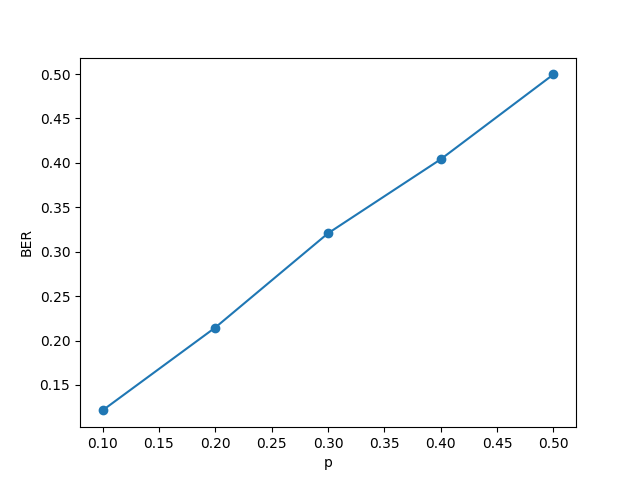
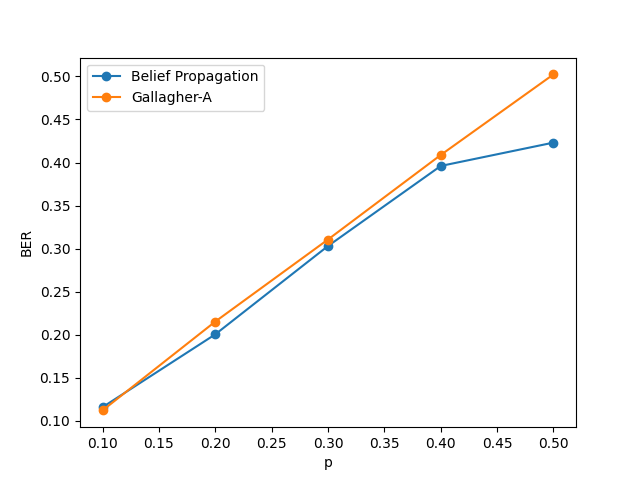
Add interface files

diff --git a/LDPC/interface/main/templates/main/awgn.html b/LDPC/interface/main/templates/main/awgn.html
@@ -1,0 +1,69 @@
+<head>
+    {% load static %}
+    <meta name="viewport" content="width=device-width, initial-scale=1, shrink-to-fit=no">
+
+    <link rel="stylesheet" href="https://maxcdn.bootstrapcdn.com/bootstrap/4.0.0/css/bootstrap.min.css" integrity="sha384-Gn5384xqQ1aoWXA+058RXPxPg6fy4IWvTNh0E263XmFcJlSAwiGgFAW/dAiS6JXm" crossorigin="anonymous">
+    <script src="https://code.jquery.com/jquery-3.2.1.slim.min.js" integrity="sha384-KJ3o2DKtIkvYIK3UENzmM7KCkRr/rE9/Qpg6aAZGJwFDMVNA/GpGFF93hXpG5KkN" crossorigin="anonymous"></script>
+    <script src="https://cdnjs.cloudflare.com/ajax/libs/popper.js/1.12.9/umd/popper.min.js" integrity="sha384-ApNbgh9B+Y1QKtv3Rn7W3mgPxhU9K/ScQsAP7hUibX39j7fakFPskvXusvfa0b4Q" crossorigin="anonymous"></script>
+    <script src="https://maxcdn.bootstrapcdn.com/bootstrap/4.0.0/js/bootstrap.min.js" integrity="sha384-JZR6Spejh4U02d8jOt6vLEHfe/JQGiRRSQQxSfFWpi1MquVdAyjUar5+76PVCmYl" crossorigin="anonymous"></script>
+    <script src="https://cdnjs.cloudflare.com/ajax/libs/materialize/1.0.0/js/materialize.min.js"></script>
+
+    <title>SimuLDPC</title>
+    <style>
+        .text {
+            color: white !important;
+        }
+        
+        .navbar {
+            background-color: black;
+            font-weight: bold;
+            height: 10%;
+        }
+    </style>
+</head>
+
+<body>
+    <nav class="navbar">
+        <a class="navbar-brand text">AWGN channel</a>
+    </nav>
+    <br><br>
+
+    <form method="POST">
+        <div class="container">
+            {% csrf_token %}
+            <div class="row">
+                <div class="col">
+                    <div class="form-group">
+                        <label for="snr" class="col-sm-1 col-form-label" style="font-weight: bold">SNR:</label>
+                        <div class="col-md-10">
+                            <input type="text" class="form-control" name="snr" id="snr" placeholder="Enter an array of SNR values. For eg: [1, 2, 3]">
+                        </div>
+                    </div>
+                    <br> <br>
+                    <div class="form-group col">
+                        <label for="img" style="font-weight: bold">Upload a gray-scale *.png image file: </label>
+                        <div class="col-md-10">
+                            <input type="file" class="form-control-file" name="img" id="img">
+                        </div>
+                    </div>
+                    <br> <br>
+                    <div class="col text-center">
+                        <button type="submit" class="btn btn-primary btn-lg" style="background-color: teal;">Simulate</button>
+                    </div>
+
+                </div>
+
+                <div class="col">
+                    <div class="col-md-10">
+                        <div class="card text-center text" style="background-color: black; font-weight: bold">
+                            <img src="../media/figs/awgn_w5Zvil9_dAryJBX.jpg" class="img-fluid float-left" alt="Responsive image">
+                            <div class="card-body">
+                                <p class="card-text">Uploaded Image</p>
+                            </div>
+                        </div>
+                    </div>
+                </div>
+            </div>
+    </form>
+
+</body>

diff --git a/LDPC/interface/main/templates/main/home.html b/LDPC/interface/main/templates/main/home.html
@@ -22,7 +22,8 @@
         <div class="row">
             {% for ch in channels %}
                 <div class="col s12 m7 l4">
-                    <div class="card grey darken-4">
+                    <a href = {{ch.channel_slug}}>
+                    <div class="card hoverable grey darken-4">
                         <div class="card-image">
                         <img src={{ch.channel_img.url}} height = "40%">
                         <span class="card-title text" style = "background-color: black; font-weight: bold">{{ch.channel_type}}</span>
@@ -31,9 +32,10 @@
                         <p>{{ch.channel_summary}}</p>
                     </div>
             <div class="card-action center">
-            <a class="waves-effect waves-light btn" href = {{ch.channel_slug}}><span class = "text">GO</span></a>
+            <a class="waves-effect hoverable waves-light btn" href = {{ch.channel_slug}}><span class = "text">GO</span></a>
             </div>
       </div>
+      </a>
     </div>
             {% endfor %}
         </div>

diff --git a/LDPC/BSC/decode.py b/LDPC/BSC/decode.py
@@ -1,107 +1,188 @@
-# Gallagher A decoder for a Binar Symmetric Channel
+# Decoder for a Binary Symmetric Channel
 
 import numpy as np
-import matplotlib.pyplot as plt 
+import matplotlib.pyplot as plt
 import math
 import commpy
 
-#Loading the Parameters from the Encoding
+# Loading the Parameters from the Encoding
 img = np.load('../binary_image.npy')
 lx, ly = len(img), len(img[0])
 code = np.loadtxt("../encoded_bits.dat")
 code_len = len(code)
 G, H = np.loadtxt("../G.dat"), np.loadtxt("../H.dat")
 n, k = G.shape[1], G.shape[0]
-img = np.array(img).flatten() #vectorising the matrix
+img = np.array(img).flatten()  # vectorising the matrix
 size = len(img)
 
-row = [[] for _ in range(len(H))] # Analogous to an adjacency list reperesentation of a graph. For storing indices of non-zero entries (corresponding to a particular row or column) in H 
+# Analogous to an adjacency list reperesentation of a graph. For storing indices of non-zero entries (corresponding to a particular row or column) in H
+row = [[] for _ in range(len(H))]
 col = [[] for _ in range(n)]
 
 for i in range(len(H)):
-	for j in range(n):
-		if(H[i][j] == 1):
-			row[i].append(j)
-			col[j].append(i)
+    for j in range(n):
+        if(H[i][j] == 1):
+            row[i].append(j)
+            col[j].append(i)
+
 
 def BSC(data, p):
-	b = np.array(np.random.rand(len(data)) < p, dtype = np.int)
-	b ^= data.astype(int)
-	return b.astype(float)
+    b = np.array(np.random.rand(len(data)) < p, dtype=np.int)
+    b ^= data.astype(int)
+    return b.astype(float)
 
 # utility functions
+
+
 def xor(arr, n):
-	res = 0
-	for i in range(len(arr)):
-		if i != n:
-			res += arr[i]
-	return res % 2
+    res = 0
+    for i in range(len(arr)):
+        if i != n:
+            res += arr[i]
+    return res % 2
+
 
 def findMax(arr, index, n):
-	res = -1
-	for i in range(len(col[index])):
-		if(i != n):
-			res = max(res, arr[col[index][i]])
+    res = -1
+    for i in range(len(col[index])):
+        if(i != n):
+            res = max(res, arr[col[index][i]])
 
-	return res
+    return res
+
 
 def findMin(arr, index, n):
-	res = 2
-	for i in range(len(col[index])):
-		if(i != n):
-			res = min(res, arr[col[index][i]])
+    res = 2
+    for i in range(len(col[index])):
+        if(i != n):
+            res = min(res, arr[col[index][i]])
 
-	return res
+    return res
 
-# Gallagher-A decoder function
-def decode(bits):
-	L = H.copy()
-	res = np.zeros(math.ceil(k*len(bits)/n))
 
-	for i in range(int(len(bits)/n)):		
-		r = bits[n*i : n*(i+1)]
-		c = r
+def computeTanh(arr, rowIndex):
+    res = 1
+    for i in row[rowIndex]:
+        res *= np.tanh(arr[i]/2)
 
-		for j in range(len(L)):
-			L[j] = H[j]*r
+    return res
 
-		for _ in range(10): # no. of iterations
-			for j in range(len(H)):
-				for l in range(n):
-					#column operations
-					temp = findMax(L[:, l], l, j)
-					if(temp == findMin(L[:, l], l, j)): # if all entries of the column are equal.
-						L[j][l] = temp
-						c[l] = temp
-					else:
-						L[j][l] = r[l]
 
-					#row operations
-					L[j][l] = xor(L[j], l)
+def intrinsic(y, p):
+    if y:
+        return np.log(p/(1 - p))
+    return -np.log(p/(1 - p))
 
-			res[k*i : k*(i+1)] = c[0:k]				
-    
-	return res 
+# decoders
 
-	
+
+def beliefProp(bits, p):  # decoding using belief-propagation
+    L = H.copy()
+    decod = np.zeros(math.ceil(k*len(bits)/n))
+
+    for i in range(int(len(bits)/n)):
+        r = bits[n*i: n*(i+1)]
+        for j in range(len(L)):
+            # Analogous to adjacency matrix representation of the Tanner graph
+            L[j] = H[j] * r
+
+        currDecision = np.zeros(n)  # to store the current decision
+
+        for _ in range(10):
+            # row operations
+            for j in range(len(L)):
+                x = L[j]
+                l_j = computeTanh(L[j], j)
+
+                for l in row[j]:
+                    temp = 0
+                    if l_j != 0:
+                        temp = l_j/np.tanh(x[l]/2)
+                        if temp == 1: # to handle the "division by zero" error
+                            temp = 0.999
+
+                        if temp == -1:
+                            temp = -0.999
+                    
+                    x[l] = np.log((1 + temp)/(1 - temp))
+
+                L[j] = x
+
+            # column operations
+            for j in range(n):
+                sum_j = intrinsic(r[j], p) + np.sum(L[:, j])
+                for l in col[j]:
+                    L[l][j] = sum_j - L[l][j]
+
+                if sum_j < 0:
+                    currDecision[j] = 1
+                else:
+                    currDecision[j] = 0
+
+            decod[k*i: k*(i+1)] = currDecision[0:k]
+
+    return decod
+
+
+def gallagher(bits):
+    L = H.copy()
+    res = np.zeros(math.ceil(k*len(bits)/n))
+
+    for i in range(int(len(bits)/n)):
+        r = bits[n*i: n*(i+1)]
+        c = r
+
+        for j in range(len(L)):
+            L[j] = H[j]*r
+
+        for _ in range(10):  # no. of iterations
+            for j in range(len(H)):
+                for l in range(n):
+                    # column operations
+                    temp = findMax(L[:, l], l, j)
+                    # if all entries of the column are equal.
+                    if(temp == findMin(L[:, l], l, j)):
+                        L[j][l] = temp
+                        c[l] = temp
+                    else:
+                        L[j][l] = r[l]
+
+                    # row operations
+                    L[j][l] = xor(L[j], l)
+
+            res[k*i: k*(i+1)] = c[0:k]
+
+    return res
+
+
 p = [0.1, 0.2, 0.3, 0.4, 0.5]
-BER = []
+BER_g = []
+BER_b = []
 
+print("Belief Propagation: ##########################################\n")
 for i in p:
-	print("For p = ", i)
-	r = BSC(code.astype(int), i) #Received Bits
-	decod = decode(r)
-	error = (img != decod).sum()
-	print("No. of incorrectly decoded bits:", error)
-	BER.append(error/size)
-	print("Bit Error rate:", error/size, "\n")
+    print("For p = ", i)
+    r = BSC(code.astype(int), i)  # Received Bits
+    decod = beliefProp(r, i)
+    error = (img != decod).sum()
+    print("No. of incorrectly decoded bits:", error)
+    BER_b.append(error/size)
+    print("Bit Error rate:", error/size, "\n")
 
-plt.plot(p, BER, marker = 'o')
+print("Gallagher-A: ##########################################\n")
+for i in p:
+    print("For p = ", i)
+    r = BSC(code.astype(int), i)  # Received Bits
+    decod = gallagher(r)
+    error = (img != decod).sum()
+    print("No. of incorrectly decoded bits:", error)
+    BER_g.append(error/size)
+    print("Bit Error rate:", error/size, "\n")
+
+plt.plot(p, BER_b, marker='o', label="Belief Propagation")
+plt.plot(p, BER_g, marker='o', label="Gallagher-A")
 plt.xlabel("p")
 plt.ylabel("BER")
+plt.legend()
 plt.savefig("../figs/BSC.png")
 plt.show()
-
-
-
-

diff --git a/LDPC/interface/main/views.py b/LDPC/interface/main/views.py
@@ -1,7 +1,20 @@
 from django.shortcuts import render
 from django.http import HttpResponse
+from django.contrib import messages
 from .models import Channel
+from django import forms
+from django.core.files.uploadedfile import SimpleUploadedFile
+from .forms import InputForm
 # Create your views here.
+
+def awgn(request):
+    snr = request.POST.get("snr")
+    img = request.POST.get("img")
+
+    
+    return render(request,
+                  'main/awgn.html',
+                  context={"form": InputForm()})
 
 def homepage(request):
     return render(request = request,

diff --git a/LDPC/interface/main/utils/decode.py b/LDPC/interface/main/utils/decode.py
@@ -279,6 +279,7 @@ for j in range(len(Eb_N0)):
         r_sym[i] = decompose(r[i], Eb) # converting from signal to symbols
 
     decod = beliefProp(r_sym, f_s * N_0/2) # decoding
+    #decod = 0
     decod_m = beliefProp_Minsum(r_sym, f_s * N_0/2)
 
     error = (img != decod).sum()

diff --git a/LDPC/interface/main/forms.py b/LDPC/interface/main/forms.py
@@ -1,0 +1,6 @@
+from django import forms
+
+class InputForm(forms.Form):
+    snr = forms.CharField(label = "SNR", help_text = "Enter an array of SNR values", required = True)
+    img = forms.ImageField(help_text = "Input a gray-scale *.png file")
+    

diff --git a/LDPC/interface/main/urls.py b/LDPC/interface/main/urls.py
@@ -24,6 +24,7 @@ app_name = "main"
 
 urlpatterns = [
     path('', views.homepage, name = "homepage"),
+    path('awgn/', views.awgn, name = "awgn"),
 ]
 
 urlpatterns += staticfiles_urlpatterns()
